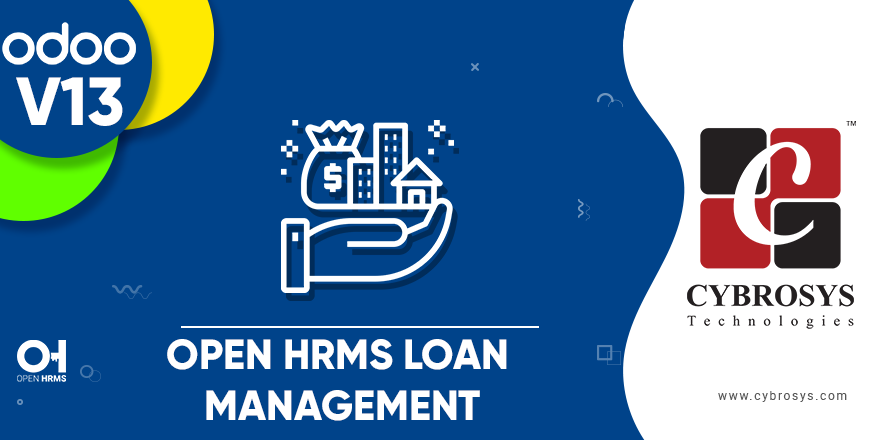
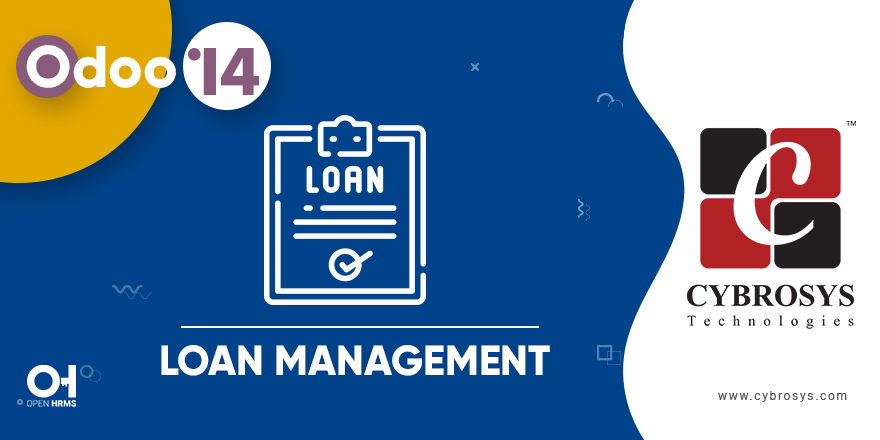
update loan

diff --git a/ohrms_loan/static/description/index.html b/ohrms_loan/static/description/index.html
@@ -13,24 +13,16 @@
       </div>
       <h2 style="font-weight: 600;font-size: 1.8rem;margin-top: 15px;">Key Highlights</h2>
       <ul style=" padding: 0 1px; list-style: none; ">
-         <li style="display: flex;align-items: center;padding: 8px 0;font-size: 18px;"><img src="images/checked.png"
-            style=" width: 22px; margin-right: 6px; "
-            alt="check">
+         <li style="display: flex;align-items: center;padding: 8px 0;font-size: 18px;"><i class="fa fa-check-circle-o" style="width:40px; color:#00438b"></i>
             Employee can create loan request.
          </li>
-         <li style="display: flex;align-items: center;padding: 8px 0;font-size: 18px;"><img src="images/checked.png"
-            style=" width: 22px; margin-right: 6px; "
-            alt="check">
+         <li style="display: flex;align-items: center;padding: 8px 0;font-size: 18px;"><i class="fa fa-check-circle-o" style="width:40px; color:#00438b"></i>
             Loan amount is deducted from the salary.
          </li>
-         <li style="display: flex;align-items: center;padding: 8px 0;font-size: 18px;"><img src="images/checked.png"
-            style=" width: 22px; margin-right: 6px; "
-            alt="check">
+         <li style="display: flex;align-items: center;padding: 8px 0;font-size: 18px;"><i class="fa fa-check-circle-o" style="width:40px; color:#00438b"></i>
             Double layer approval, from Accounting & HR Department.
          </li>
-         <li style="display: flex;align-items: center;padding: 8px 0;font-size: 18px;"><img src="images/checked.png"
-            style=" width: 22px; margin-right: 6px; "
-            alt="check">
+         <li style="display: flex;align-items: center;padding: 8px 0;font-size: 18px;"><i class="fa fa-check-circle-o" style="width:40px; color:#00438b"></i>
             Current month installment is automatically listed in payslip.
          </li>
       </ul>
@@ -92,22 +84,22 @@
                   <ul>
                      <li class="mb8"
                         style="font-family: Roboto;color: #000;list-style-type: square;font-size: 19px;line-height: 50px; background-color: #3a34380d;padding-left: 20px;border-radius: 7px;list-style: none;">
-                        <img src="images/checked.png" style=" width: 22px; margin-right: 6px; " alt="check">
+                        <i class="fa fa-check-circle-o" style="width:40px; color:#00438b"></i>
                         Employee can create loan request.
                      </li>
                      <li class="mb8"
                         style="font-family: Roboto;color: #000;list-style-type: square;font-size: 19px;line-height: 50px; background-color: #3a34380d;padding-left: 20px;border-radius: 7px;list-style: none;">
-                        <img src="images/checked.png" style=" width: 22px; margin-right: 6px; " alt="check">
+                        <i class="fa fa-check-circle-o" style="width:40px; color:#00438b"></i>
                         Loan amount is deducted from the salary.
                      </li>
                      <li class="mb8"
                         style="font-family: Roboto;color: #000;list-style-type: square;font-size: 19px;line-height: 50px; background-color: #3a34380d;padding-left: 20px;border-radius: 7px;list-style: none;">
-                        <img src="images/checked.png" style=" width: 22px; margin-right: 6px; " alt="check">
+                        <i class="fa fa-check-circle-o" style="width:40px; color:#00438b"></i>
                         Double layer approval, from Accounting & HR Department.
                      </li>
                      <li class="mb8"
                         style="font-family: Roboto;color: #000;list-style-type: square;font-size: 19px;line-height: 50px; background-color: #3a34380d;padding-left: 20px;border-radius: 7px;list-style: none;">
-                        <img src="images/checked.png" style=" width: 22px; margin-right: 6px; " alt="check">
+                        <i class="fa fa-check-circle-o" style="width:40px; color:#00438b"></i>
                         Current month installment is automatically listed in payslip.
                      </li>
                   </ul>
@@ -127,8 +119,7 @@
                                        style="float: left;">
                                        <h3 class="alert"
                                           style="font-weight:400;color: #091E42;background: #fff;text-align: left;border-radius: 0; font-size: 18px;">
-                                          <img src="images/checked.png"
-                                             style=" width: 22px; margin-right: 6px; " alt="check">
+                       <i class="fa fa-check-circle-o" style="width:40px; color:#00438b"></i>
                                           Enable the option "Loan Approval From Accounting Department" In accounting settings 
                                        </h3>
                                        <div style=""><img class="img img-responsive center-block"
@@ -141,8 +132,7 @@
                                        style="float: left;">
                                        <h3 class="alert"
                                           style="font-weight:400;color: #091E42;background: #fff;text-align: left;border-radius: 0; font-size: 18px;">
-                                          <img src="images/checked.png"
-                                             style=" width: 22px; margin-right: 6px; " alt="check">
+                       <i class="fa fa-check-circle-o" style="width:40px; color:#00438b"></i>
                                           Add the deduction rule for loan in Salary Structure. 
                                           <br>
                                        </h3>
@@ -158,9 +148,7 @@
                                        style="float: left;">
                                        <h3 class="alert"
                                           style="font-weight:400;color: #091E42;background: #fff;text-align: left;border-radius: 0; font-size: 18px;">
-                                          <img src="images/checked.png"
-                                             style=" width: 22px; margin-right: 6px; "
-                                             alt="check">
+                    <i class="fa fa-check-circle-o" style="width:40px; color:#00438b"></i>
                                           Employee can create loan request
                                        </h3>
                                        <div style=""><img class="img img-responsive center-block"
@@ -174,9 +162,7 @@
                                        style="float: left;">
                                        <h3 class="alert"
                                           style="font-weight:400;color: #091E42;background: #fff;text-align: left;border-radius: 0; font-size: 18px;">
-                                          <img src="images/checked.png"
-                                             style=" width: 22px; margin-right: 6px; "
-                                             alt="check">
+                    <i class="fa fa-check-circle-o" style="width:40px; color:#00438b"></i>
                                           Once the HR department has given the Approval, the accounts department take the decision. 
                                        </h3>
                                        <div style=""><img class="img img-responsive center-block"
@@ -190,9 +176,7 @@
                                        style="float: left;">
                                        <h3 class="alert"
                                           style="font-weight:400;color: #091E42;background: #fff;text-align: left;border-radius: 0; font-size: 18px;">
-                                          <img src="images/checked.png"
-                                             style=" width: 22px; margin-right: 6px; "
-                                             alt="check">
+                    <i class="fa fa-check-circle-o" style="width:40px; color:#00438b"></i>
                                           When we create the payslip, all the pending installments of the month will be listed there. 
                                        </h3>
                                        <div style=""><img class="img img-responsive center-block"
@@ -206,9 +190,7 @@
                                        style="float: left;">
                                        <h3 class="alert"
                                           style="font-weight:400;color: #091E42;background: #fff;text-align: left;border-radius: 0; font-size: 18px;">
-                                          <img src="images/checked.png"
-                                             style=" width: 22px; margin-right: 6px; "
-                                             alt="check">
+                    <i class="fa fa-check-circle-o" style="width:40px; color:#00438b"></i>
                                           When we check the Loan request again, the deducted installments will be changed to paid. 
                                        </h3>
                                        <div style=""><img class="img img-responsive center-block"

diff --git a/ohrms_loan/models/hr_payroll.py b/ohrms_loan/models/hr_payroll.py
@@ -4,6 +4,26 @@ import babel
 from odoo import models, fields, api, tools, _
 from datetime import datetime
 
+class HrPayslipInput(models.Model):
+    _inherit = 'hr.payslip'
+    @api.model
+    def get_contract(self, employee, date_from, date_to):
+
+        """
+        @param employee: recordset of employee
+        @param date_from: date field
+        @param date_to: date field
+        @return: returns the ids of all the contracts for the given employee that need to be considered for the given dates
+        """
+        # a contract is valid if it ends between the given dates
+        clause_1 = ['&', ('date_end', '<=', date_to), ('date_end', '>=', date_from)]
+        # OR if it starts between the given dates
+        clause_2 = ['&', ('date_start', '<=', date_to), ('date_start', '>=', date_from)]
+        # OR if it starts before the date_from and finish after the date_end (or never finish)
+        clause_3 = ['&', ('date_start', '<=', date_from), '|', ('date_end', '=', False), ('date_end', '>=', date_to)]
+        clause_final = [('employee_id', '=', employee.id), ('state', '=', 'open'), '|',
+                        '|'] + clause_1 + clause_2 + clause_3
+        return self.env['hr.contract'].search(clause_final).ids
 
 class HrPayslipInput(models.Model):
     _inherit = 'hr.payslip.input'
@@ -31,7 +51,7 @@ class HrPayslip(models.Model):
         self.company_id = employee.company_id
 
         if not self.env.context.get('contract') or not self.contract_id:
-            contract_ids = employee._get_contracts( date_from, date_to)
+            contract_ids = self.get_contract(employee, date_from, date_to)
             if not contract_ids:
                 return
             self.contract_id = self.env['hr.contract'].browse(contract_ids[0])

diff --git a/ohrms_loan/__manifest__.py b/ohrms_loan/__manifest__.py
@@ -3,8 +3,7 @@
 #    A part of OpenHRMS Project <https://www.openhrms.com>
 #
 #    Cybrosys Technologies Pvt. Ltd.
-#    Copyright (C) 2018-TODAY Cybrosys Technologies (<https://www.cybrosys.com>).
-#    Author: Anusha P P (<https://www.cybrosys.com>)
+#    Copyright (C) 2020-TODAY Cybrosys Technologies (<https://www.cybrosys.com>).
 #
 #    This program is free software: you can modify
 #    it under the terms of the GNU Affero General Public License (AGPL) as
@@ -22,7 +21,7 @@
 ###################################################################################
 {
     'name': 'Open HRMS Loan Management',
-    'version': '13.0.1.1.0',
+    'version': '14.0.1.0.0',
     'summary': 'Manage Loan Requests',
     'description': """
         Helps you to manage Loan Requests of your company's staff.
@@ -31,9 +30,10 @@
     'author': "Cybrosys Techno Solutions",
     'company': 'Cybrosys Techno Solutions',
     'maintainer': 'Cybrosys Techno Solutions',
+    'live_test_url': 'https://youtu.be/LdUvXDMkd4Q',
     'website': "https://www.openhrms.com",
     'depends': [
-        'base', 'hr_payroll', 'hr', 'account',
+        'base', 'hr_payroll', 'hr', 'account','hr_contract',
     ],
     'data': [
         'security/ir.model.access.csv',
@@ -43,8 +43,7 @@
         'views/hr_loan.xml',
         'views/hr_payroll.xml',
     ],
-    'demo': [],
-    'images': ['static/description/banner.jpg'],
+    'images': ['static/description/banner.png'],
     'license': 'AGPL-3',
     'installable': True,
     'auto_install': False,

diff --git a/ohrms_loan/doc/RELEASE_NOTES.md b/ohrms_loan/doc/RELEASE_NOTES.md
@@ -1,19 +1,6 @@
 ## Module <ohrms_loan>
 
-#### 21.04.2018
-#### Version 13.0.1.0.0
+#### 06.10.2020
+#### Version 14.0.1.0.0
 ##### ADD
 - Initial commit for Open HRMS Project
-
-#### 08/11/2018
-#### Version 13.0.1.0.1
-##### FIX
-- Fixed TypeError Git Issue #13
-
-#### 12/12/2018
-#### Version 13.0.1.0.1
-##### CHANGE
-- Exception class changed
-- State visibility changed
-- Restriction added for deletion
-
